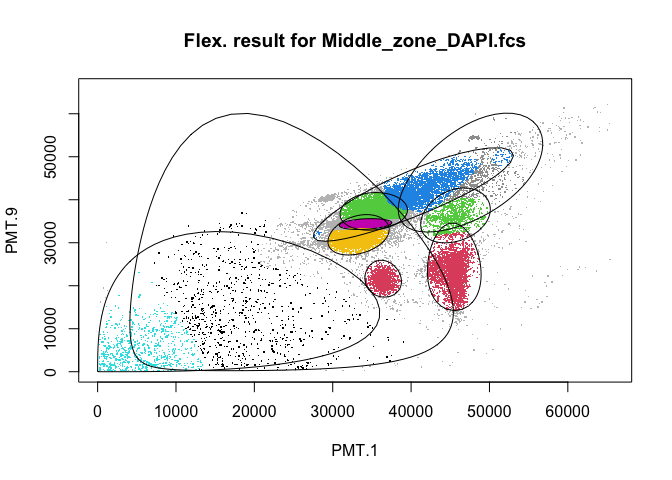
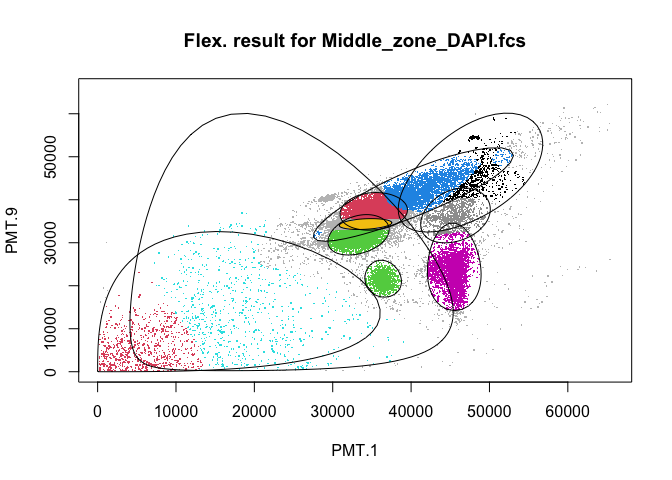
correct some paras for meta-figure

diff --git a/workflow/04a-GMM-for-Z-project.md b/workflow/04a-GMM-for-Z-project.md
@@ -1,6 +1,6 @@
 04a-GMM for Z-project
 ================
-Compiled at 2023-11-06 11:20:18 UTC
+Compiled at 2023-11-10 10:46:54 UTC
 
 ``` r
 here::i_am(paste0(params$name, ".Rmd"), uuid = "9d6a84ea-ebe8-4073-bfe1-9e2529a9d667")
@@ -97,7 +97,31 @@ library(flowMerge)
 library(MASS)
 library(ggpubr)
 library(plot3D)
+library(VGAMextra)
 ```
+
+    ## Loading required package: stats4
+
+    ## Loading required package: VGAM
+
+    ## Loading required package: splines
+
+    ## 
+    ## Attaching package: 'VGAM'
+
+    ## The following object is masked from 'package:flowCore':
+    ## 
+    ##     exponential
+
+    ## 
+    ##      =====    VGAMextra 0.0-4    ===== 
+    ## 
+    ## Additions and extensions of the package VGAM.
+    ## For more on VGAMextra, visit
+    ##      https://www.stat.auckland.ac.nz/~vmir178/
+    ## 
+    ## For a short description, fixes/bugs, and new
+    ## features type vgamextraNEWS().
 
 ``` r
 # create or *empty* the target directory, used to write this file's data: 
@@ -146,9 +170,6 @@ results will be determined by cross validation.
 ``` r
 DAPI_GMM <- list()
 DAPI_GMM_flowemmi <- list()
-DAPI_GMM_3D <- list()
-
-GMM_plot <- list()
 
 for (i in 1:5){
   data <- DAPI[[i]]@exprs[,c(11,27)]
@@ -157,28 +178,41 @@ for (i in 1:5){
   
   n_cluster <- length(gating_DAPI[[i]]@sigma)
   DAPI_GMM_flowemmi[[data_name]]<-flowGMM(data,n_cluster)
-  
-  data1 <- DAPI[[i]]@exprs[,c(11,13,27)]
-  DAPI_GMM_3D[[data_name]]<-flowGMM(data1,NULL)
-  
-  GMM_plot[[i]] <- fviz_mclust(DAPI_GMM[[i]]$model, "classification", geom = "point",main=data_name)
-  GMM_plot[[i+5]] <- fviz_mclust(DAPI_GMM_flowemmi[[i]]$model, "classification", 
-                                 geom = "point",main="K = flowEMMI")
+}
+```
 
+### gating plot
+
+``` r
+DAPI_GMM_3D <- list()
+GMM_plot <- list()
+
+for (i in 1:5){
+  data_name <- names(DAPI)[i]
+  GMM_plot[[i]] <- fviz_mclust(DAPI_GMM_flex[[i]]$model, "classification", geom = "point",main=data_name)
+  GMM_plot[[i+5]] <- fviz_mclust(DAPI_GMM_fix[[i]]$model, "classification", 
+                                 geom = "point",main="K = flowEMMI")
 }
 
 # 2D plots
 ggarrange(plotlist = GMM_plot,ncol=5,nrow=2,common.legend = T,legend = "bottom")
+```
 
+![](04a-GMM-for-Z-project_files/figure-gfm/GMM-plots-1.png)<!-- -->
+
+``` r
 # 3D plots
 for (i in 1:5){
+  data1 <- DAPI[[i]]@exprs[,c(11,13,27)]
+  data_name <- names(DAPI)[i]
+  DAPI_GMM_3D[[data_name]]<-flowGMM(data1,NULL)
   plot(DAPI_GMM_3D[[i]]$model,what="classification",main=data_name)
 }
 ```
 
-## Meta-clustering
+![](04a-GMM-for-Z-project_files/figure-gfm/GMM-plots-2.png)<!-- -->![](04a-GMM-for-Z-project_files/figure-gfm/GMM-plots-3.png)<!-- -->![](04a-GMM-for-Z-project_files/figure-gfm/GMM-plots-4.png)<!-- -->![](04a-GMM-for-Z-project_files/figure-gfm/GMM-plots-5.png)<!-- -->![](04a-GMM-for-Z-project_files/figure-gfm/GMM-plots-6.png)<!-- -->
 
-### merge
+### Meta-clustering
 
 ``` r
 GMM.merge <- function(gating_list){
@@ -219,12 +253,12 @@ GMM.merge <- function(gating_list){
 }
 ```
 
-### plots
+### meta-gating plots
 
 ``` r
 location <- c("Inner_zone","Middle_zone","Outer_zone","Surrounding","Whole_colony")
-GMM_meta_flex <- GMM.merge(DAPI_GMM)
-GMM_meta_fix <- GMM.merge(DAPI_GMM_flowemmi)
+GMM_flex_meta <- GMM.merge(DAPI_GMM_flex)
+GMM_fix_meta <- GMM.merge(DAPI_GMM_fix)
 
 meta_plots <- list()
 
@@ -232,7 +266,7 @@ for (i in 1:5){
   data <- DAPI[[i]]
   var <- location[i]
   meta_plots[[i]] <- plotDensityAndEllipses(fcsData = data, ch1="PMT.1", ch2="PMT.9", alpha=0.9,
-                            logScale = F, results = GMM_meta_flex,
+                            logScale = F, results = GMM_flex_meta,
                             title = paste0("GMM Meta-clust on ",var," with flex. K"), 
                             plotRelevance = T,gridsize = 1000,
                             ellipseDotSize = 0.5, axis_size=10, axisLabeling_size=10,
@@ -247,7 +281,7 @@ for (i in 1:5){
 ### for points
 
 ``` r
-GMMroc <- function(data,gating_data,CI){
+GMMroc <- function(data,gating_data,dimension,CI){
   mu <- gating_data$parameter$mean
   dim <- dim(gating_data$parameter$variance$sigma)[3]
   
@@ -277,7 +311,7 @@ GMMroc <- function(data,gating_data,CI){
   roc.points <- data.frame(cell=NA,volume=NA)
   
   for (alpha in CI){
-    threshold <- -2*log(1-alpha)
+    threshold <- qinv.chisq(alpha,df=dimension)
   
     for (cell in 1:ncells){
       rv <- data1[cell,1:ncol(data1)-1]
@@ -288,11 +322,12 @@ GMMroc <- function(data,gating_data,CI){
     result <- table(data1$Cluster) %>% as.data.frame()
     sum1 <- sum(result$Freq)
   
-    eigen <- matrix(NA,nrow=length(sigma),ncol=2)
+    eigen <- matrix(NA,nrow=length(sigma),ncol=dimension)
     for (i in 1:length(sigma)){
       eigen[i,] <- eigen(sigma[[i]])$values
     }
     eigen <- eigen[-1,]
+    
     
     if(length(sigma)>2){
     area <- matrix(NA,nrow=nrow(eigen),ncol=1)
@@ -300,6 +335,7 @@ GMMroc <- function(data,gating_data,CI){
       area[i,1] <- pi*sqrt(eigen[i,1]*eigen[i,2])*threshold}
     }
     else {area <- pi*sqrt(eigen[1]*eigen[2])*threshold}
+    
     
     area <- as.data.frame(area)
     sum2 <- sum(area)
@@ -435,13 +471,11 @@ for (i in 1:5){
 
     ## Rule of identifying outliers: 90% quantile
 
-## flowMerge
-
-### merging
+### flowMerge
 
 ``` r
-DAPI_fC_flex_merge <- list()
-DAPI_fC_fixed_merge <- list()
+DAPI_fC_flex_meta <- list()
+DAPI_fC_fixed_meta <- list()
 
 for (i in 1:5){
   data <- DAPI[[i]]
@@ -452,11 +486,11 @@ for (i in 1:5){
   a <- fitPiecewiseLinreg(merge)
   
   flowobj2 <- flowObj(DAPI_fC_fixed[[i]],data)
-  merge2 <- flowMerge::merge(flowobj2,metrix="mahalanobis")
+  merge2 <- flowMerge::merge(flowobj2,metric="mahalanobis")
   b <-  fitPiecewiseLinreg(merge2)
   
-  DAPI_fC_flex_merge[[data_name]] <- merge[[a]]
-  DAPI_fC_fixed_merge[[data_name]] <- merge2[[b]]
+  DAPI_fC_flex_meta[[data_name]] <- merge[[a]]
+  DAPI_fC_fixed_meta[[data_name]] <- merge2[[b]]
 }
 ```
 
@@ -916,7 +950,7 @@ for (i in 1:5){
 ``` r
 #plots
 for (i in 1:5){
-  opt <- DAPI_fC_flex_merge[[i]]
+  opt <- DAPI_fC_flex_meta[[i]]
   var <- location[i]
   plot(opt,level=0.9,main=paste0("Mering for flex K\nIn ",var))
 }
@@ -1024,19 +1058,19 @@ flowClust_roc <- function(data,gating_data,alpha){
 ```
 
 ``` r
-DAPI_bc <- list()
-test0 <- list()
+DAPI_fC_flex_roc <- list()
+DAPI_fC_fix_roc <- list()
 
 for (i in 1:5){
   name <- names(DAPI)[i]
   data0 <- DAPI[[name]]@exprs[,c(11,27)]
   gating_data <- DAPI_fC_flex[[name]]
   alpha <- seq(0.01,0.99,by=0.01)
-  DAPI_bc[[name]] <- flowClust_roc(data0,gating_data,alpha)
+  DAPI_fC_flex_roc[[name]] <- flowClust_roc(data0,gating_data,alpha)
   
   #trans=0: no box-cox
   test <- flowClust(DAPI[[i]], varNames = c("PMT.1","PMT.9"), K=9,trans = 0)
-  test0[[i]] <- flowClust_roc(data0,test,alpha)
+  DAPI_fC_fix_roc[[i]] <- flowClust_roc(data0,test,alpha)
 }
 ```
 
